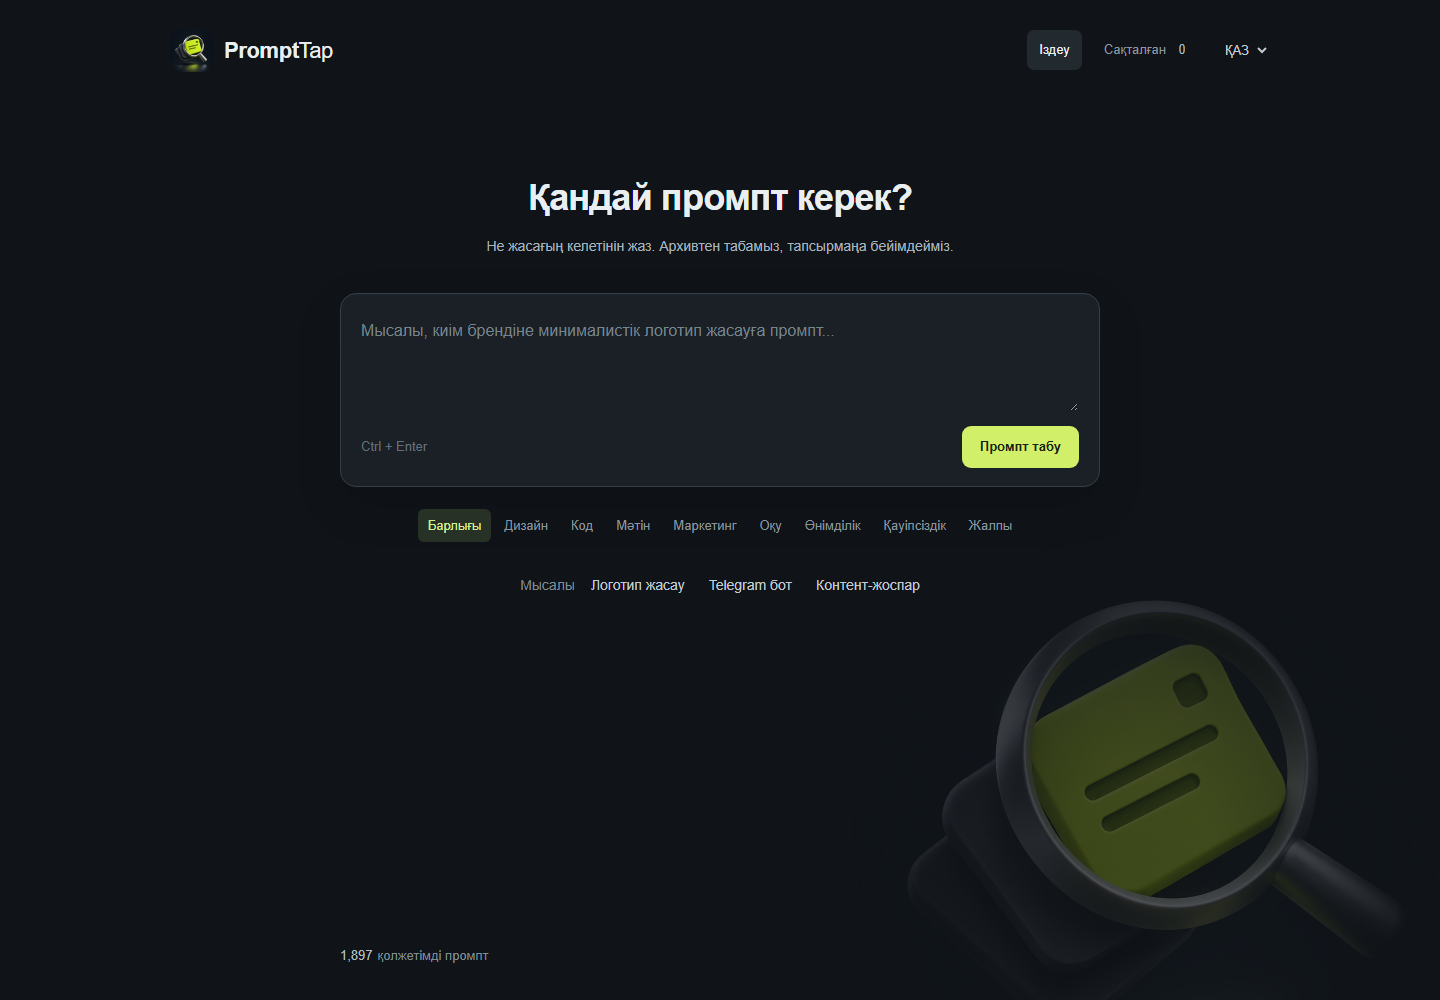
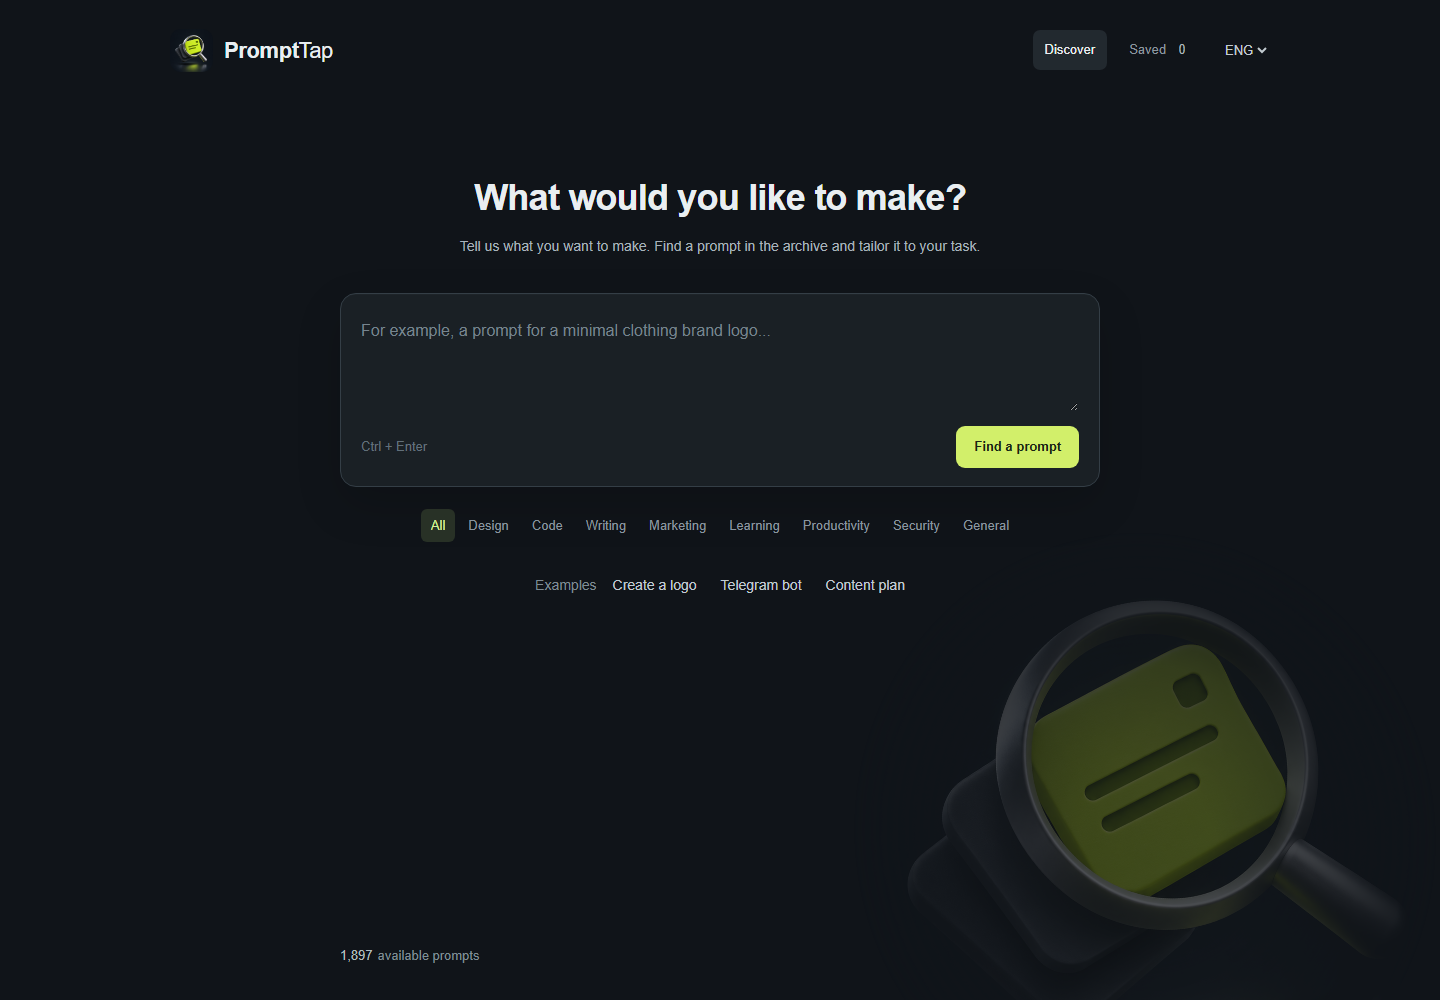
Show English app screenshots in the README

diff --git a/README.md b/README.md
@@ -4,7 +4,7 @@
 
 <h1 align="center">PromptTap</h1>
 <p align="center">Find the right prompt. Make it yours.</p>
-<p align="center">Қазақша · Русский · English</p>
+<p align="center">Kazakh · Russian · English</p>
 <p align="center">
   <a href="https://t.me/PromptTapBot">Open Telegram bot</a> ·
   <a href="https://vertex-blip.github.io/PromptTap/">Open website</a> ·
